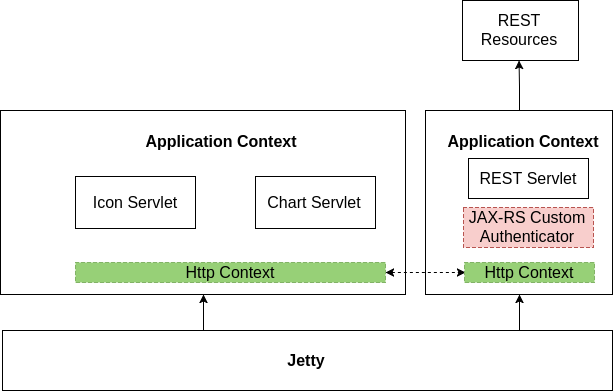
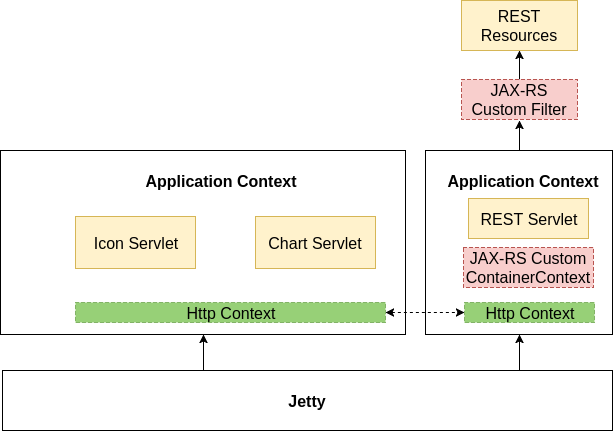
covered implementation and architectural changes, added diagrams and code

diff --git a/master-thesis.tex b/master-thesis.tex
@@ -587,6 +587,7 @@ Figure \ref{fig:misuse_cases} shows on one side the use cases extracted from the
 On 15th February, 2018, a videocall meeting was held by the interested parties in the community with the purpose of clarifying the requirements gathered in the document mentioned in the subsection \ref{ssec:discussion}, and set priorities accordingly. Part of the discussion also meant to discuss how previously attempted solutions might be of use for the future implemention of authentication and access control. Among the most relevant agreed points was the use of JSON Web Tokens (JWT) to accomplish stateless authentication. The main reason for this decision was to reduce the effort needed to manage user sesions in the backend. It was also decided that the specifics of the access control mechanisms would be decided at a later point in time, since the most important priority was solving authentication. Therefore, further effort in this work focused on the implementation of a JWT-based authentication compatible with the Eclipse SmartHome architecture, and thus, compatible also with the openHAB software stack.
 
 Typically, all kinds of token-based authentication follow these steps (REFERENCE):
+\TODO{Structure as an algorithm}
 \begin{enumerate}
 \item The client sends its credentials (e.g. username, password, fingerprint) to the server.
 \item The server attmpts to authenticate: if valid, it generates a token that includes expiration time.
@@ -599,6 +600,7 @@ Typically, all kinds of token-based authentication follow these steps (REFERENCE
 
 The JSON Web Token (JWT) holds some peculiarities to other existing kinds of tokens. The primary difference is that this token includes a digital signature by the party that created it, e.g., the server. Thus, some adaptations would have to be applied to this procedure. Consider, for example, the limitations in the user interface in Eclipse SmartHome to provide web forms to put the credentials. For this reason, credentials are sent first through \emph{basic authentication}, since the web browser takes care of asking for the credentials. Therefore, the proposed authentication mechanism is as follows:
 
+\TODO{Structure as an algorithm}
 \begin{enumerate}
 \item The client sends credentials through basic-authentication pop up form.
 \item The server extracts credentials and, if these match a existing user, generate a JSON Web Token (JWT), appending to it the username and any additional fields, including expiration time and the server's digital signature of the JWT digest. Server sends the JWT to the client.
@@ -607,7 +609,7 @@ The JSON Web Token (JWT) holds some peculiarities to other existing kinds of tok
 \item If the JWT is expired, the server requests credentials through basic-authentication, and if these are valid, it generates and serves a valid JWT.
 \end{enumerate}
 
-What may immediately stand out in this proposal, in contrast with the typical procedure is the embedding of the username as part of the JWT fields. Typically, a username is not considered to be \emph{confidential} and, although it normally isn't made public, it gives the adversary no significant advantage on stealing a user's data. Moreover, for the sake of maintaining forward securtiy, a JWT is only renewed if the valid credentials are presented again. An adversary may, in some manner, retrieve an expired legitimate token. If this expired token would be presented to the server, then the server could present the adversary with a fresh token. Finally, the most important distinction is the use of digital signatures within the token. Indeed, if an adversary tried to impersonate a legitimate user through guessing usernames, it would not work, as the signature would not verify on the server's end. The security of the signature is as strong as the security of the signature, which may be RSA-2048, for instance.
+What may immediately stand out in this proposal, in contrast with the typical procedure is the embedding of the username as part of the JWT fields. Typically, a username is not considered to be \emph{confidential} and, although it normally isn't made public, it gives the adversary no significant advantage on stealing a user's data. In fact, if only resource access control is the goal, then the username does not need to be included. It would be sufficient to include the claims regarding the permissions on access to resources, since the validity of the token is relying on the signature. Moreover, for the sake of maintaining forward securtiy, a JWT is only renewed if the valid credentials are presented again. An adversary may, in some manner, retrieve an expired legitimate token. If this expired token would be presented to the server, then the server could present the adversary with a fresh token. Finally, the most important distinction is the use of digital signatures within the token. Indeed, if an adversary tried to impersonate a legitimate user through guessing usernames, it would not work, as the signature would not verify on the server's end. The security of the signature is as strong as the security of the signature, which may be RSA-2048, for instance.
 
 The aforementioned procedure was designed with the assumption that, at all times, an HTTPS connection is present and thus, communication is protected through the TLS protocol. Otherwise, credentials and JWTs could be intercepted at any time by an adversary. 
 
@@ -623,7 +625,7 @@ As part of the OSGi version 6 specification, filters may be registered to any re
 
 As development of the Eclipse Smarthome halted, a new direction involving traditional servlet security was considered for this work. As part of servlet registration to the OSGi runtime, an entity called \texttt{HttpContext} has to be provided. This entity provides the means to intercept HTTP requests before they reach the servlet, and thus it becomes the point where authentication and authorization may be implemented. Originally, this approach was discarded because the REST endpoints did not support the use of \texttt{HttpContext} alongside its registration. The key in this case is that both groups of servlets, the traditional and the REST servlet, run under different application contexts. What this means is that, even if a traditional servlet handles authentication properly, this information would not be propagated to the REST endpoints, and thus authorization mechanisms would not be enforced. In the months of March and April, however, part of the community started an effort to combine, or rather, to \emph{share} the provided \texttt{HttpContext} among servlets and REST endpoints.
 
-Figure \ref{fig:esh_auth_arch} shows at a very high level the underlying architecture of the Eclipse SmartHome runtime. At the lowest level, the Jetty HTTP server and servlet engine is running. On top of it, there are several servlets running separately. Part of these servlets may be associated as being \emph{traditional}, while a particular servlet, the REST servlet, runs under different conditions. The REST servlet is used to serve resources, such as things, items, channels, etc. The Chart and Icon servlets, are of the traditional kind and thus, run under the same shared application context. Meanwhile, the REST servlet is shown to run under an isolated application context. Thus, the solution worked on by the community is to bridge both contexts and therefore have a commonly shared \texttt{HttpContext}. Green boxes represent a possible solution to the problem, whereas the red box is an attempted solution by the community, which had many problems when ported into the actual openHAB product.
+Figure \ref{fig:esh_auth_arch} shows at a very high level the underlying architecture of the Eclipse SmartHome runtime. At the lowest level, the Jetty HTTP server and servlet engine is running. On top of it, there are several servlets running separately. Part of these servlets may be associated as being \emph{traditional}, while a particular servlet, the REST servlet, runs under different conditions. The REST servlet is used to serve resources, such as things, items, channels, etc. The Chart and Icon servlets, are of the traditional kind and thus, run under the same shared application context. Meanwhile, the REST servlet is shown to run under an isolated application context. Thus, the solution worked on by the community is to bridge both contexts and therefore have a commonly shared \texttt{HttpContext}. Yellow boxes represent the entities or resources that should have its access restricted according to a specified policy. Green boxes represent the possible solution to the problem, whereas the red boxes are the attempted solutions in previous years. Particularly, ``JAX-RS Custom ContainerContext'' was an attempted solution by the community, which had many problems when ported into the actual openHAB product. An alternative solution to it, the ``JAX-RS Custom Filter'' was originally planned to be implemented for this work, but the notion was discarded after understanding the limitations of this kind of filter, since it would not enforce authorization for the rest of the servlets (e.g. Icon servlet). 
 
 \begin{figure} [ht] 
 \begin{center}
@@ -633,16 +635,93 @@ Figure \ref{fig:esh_auth_arch} shows at a very high level the underlying archite
 \end{center}
 \end{figure}
 
-\TODO{include figures (2)  about authenticators and other resources}
+Initial results by the community (REFERENCE) showed that it was indeed possible to make the \texttt{HttpContext} shared by the components that needed access control. Taking these results into account, work in the direction of a \emph{custom} \texttt{HttpContext} started. For this, the merged \texttt{HttpContext} will require the existence of an authenticator, i.e. a module that performs the authentication logic, and thereafter the module that performs authorization. Figure \ref{fig:esh_arch_authenticator} shows how the authenticator is merely a black box that may choose to perform a certain kind of authetnication according to the circumstance. The decision is based on the received HTTP request: depending on whether if has an authorization header, and if it does, which kind of authentication it intends to perform, or otherwise if there is a session identifier (cookie) present. Implementation details for the basic and JWT authenticators are introduced in subsection \ref{ssec:impl}. Form authentication is left as future work. 
 
-Initial results by the community (REFERENCE) showed that it was indeed possible to make the \texttt{HttpContext} shared by the components that needed access control. Taking these results into account, work in the direction of a \emph{custom} \texttt{HttpContext} started. Implementation details are introduced in the next subsection.
+\begin{figure} [ht] 
+\begin{center}
+\includegraphics[width=0.8\textwidth]{esh_arch_authenticator}
+\caption{Addition of authenticators into the architecture.}
+\label{fig:esh_arch_authenticator}
+\end{center}
+\end{figure}
 
-\subsection{Implementation of Authentication}
-As an interface class of the \texttt{Http Service} OSGi feature, \texttt{HttpContext} includes a method \texttt{handleSecurity} which, as the name implies, handles the security for the specified request to the servlet. 
+After the process of authentication, what follows is authorization. The authorization itself depends on the access control policies decided for the particular resources. This work focuses on authentication, and thus does not include the implementation of a particular access control policy. However, a proposal for access control is made in subsection \ref{ssec:autho}.
 
-\TODO{Sequence diagram on authentication}
+\subsection{Implementation of Authenticators}
+\label{ssec:impl}
+
+To model the sequence of events ocurring during the intended authentication procedure, a sequence diagram was written and is shown in figure \ref{fig:esh_auth_sequence}. This is showing the most compelling scenario: where the client interacts the first time with a servlet to get access to a resource. Clearly, as no credentials are provided at this time, the servlet requests basic authentication, and from there it generates a JSON Web Token (JWT). This token is used in any subsequent requests by the client. Note that the authorization policy is not included into this sequence of events. Thus, authorization becomes a binary aspect: if credentials are valid, then access is granted to the resource, regardless of its nature. Due to simplification, this diagram is only considering the use of valid credentials. In the actual implementation, invalid credentials result in a ``Forbidden Access'' response. 
+
+\begin{figure} [ht] 
+\begin{center}
+\includegraphics[width=0.8\textwidth]{esh_auth_sequence}
+\caption{Authentication sequence diagram.}
+\label{fig:esh_auth_sequence}
+\end{center}
+\end{figure}
+
+The implementation of the authenticators was made into the \texttt{auth} bundle of the Eclipse SmartHome OSGi architecture. Due to the hierarchical nature of this project, many details will be omitted.  The core of the authenticator is located as part of the \texttt{CustomHttpContext} code located in this bundle.
+
+As an interface class of the \texttt{Http Service} OSGi feature, \texttt{HttpContext} includes a method \texttt{handleSecurity} which, as the name implies, handles the security for the specified request to the servlet. As long as the servlet is registered with the custom \texttt{HttpContext}, every request into the servlet will go through the \texttt{handleSecurity} method.
+
+\TODO{FIX HYPHEN ISSUES AND REF TO CODE SNIPPET INSTEAD OF FIG}
+\begin{figure} [htb]
+  \begin{lstlisting}
+class CustomHttpContext implements HttpContext {   
+ boolean handleSecurity(request,response) {
+  if(request.getHeader("Authorization") == null \
+       && request.getHeader("Cookie") == null) {
+    response.addHeader("WWW-Authenticate", \
+	"Basic realm=\"Test Realm\"");
+    response.sendError(HttpServletResponse.SC_UNAUTHORIZED;
+    return false;
+  }	    
+  if(jwtAuthenticated(request)) {
+    return true;		
+  } else if(basicAuthenticated(request)){
+    username = getUsername(request);
+    freshToken = generateJwt(username);
+    response.addHeader("Set-Cookie", freshToken);
+    return true;
+  } else {
+    response.sendError(HttpServletResponse.SC_UNAUTHORIZED);
+    return false;
+  }
+ }
+}
+\end{lstlisting}
+\caption{Core implementation of \texttt{CustomHttpContext}.}
+\label{lst:core_impl}
+\end{figure}
+
+The simplified code snippet shows the core part of the \texttt{HttpContext} that intercepts requests and performs authentication from the provided HTTP header. As shown in the code snippet, after the JWT has been generated, it is given to the client as a \emph{cookie}. This way, no logic has to be implemented to manage the token in the client side (e.g. through local storage using HTML5). In subsequent requests, the cookie is presented to the server, and from it, the token is extracted and verified.
+
+To handle the creation and verification of JWT, a third library library, Nimbus, was used (REFERENCE). This library even provides more complex features such as encryption of the JWT via a symmetric key encryption, but these are not currently considered for this work. As part of the basic structure of the JWT, a signature of the host is included at the end of the claims (e.g., username, permissions). For the proof of concept, an RSA-1024 key is generated as a singleton during runtime. Using the singleton pattern ensures that multiple private keys do not exist simultaneously, which could cause conflicts during signature verification. The freshly created RSA key is then used to both generate and sign the JWT, as shown in the simplified code snippet \ref{lst:rsa}.
+
+\begin{figure} [htb]
+\begin{lstlisting}
+  protected String generateJwt(String username, String claim) {
+    RSAPublicKey publicKey = (RSAPublicKey)getKeyPair().getPublic();
+    RSAPrivateKey privKey = (RSAPrivateKey)getKeyPair().getPrivate();
+    JWSObject jwsObject = new JWSObject(
+    new JWSHeader.Builder(JWSAlgorithm.RS256).keyID("123").build(),
+    new Payload(username));
+    jwsObject.sign(new RSASSASigner(privKey));
+    return jwsObject.serialize();	
+  }    
+\end{lstlisting}
+\caption{Generation and signing of JWT.}
+\label{lst:rsa}
+\end{figure}
+
+Code for the verification of the JWT is omitted as it follows a very similar logic to JWT generation and signing, but in reverse order. This implies de-serializing the JWT, loading the RSA public key into some object, verifying JWT using said object, and finally extracting username and claims. In the implementation, the username need not be extracted, as it is guaranteed that the claims are valid, given that the signature is valid.
+
+As mentioned, the RSA key is generated at runtime once. Originally, this was meant to merely be a placeholder for a pre-existing RSA key that is present in the distribution of openHAB for SSH access. This pre-existing RSA key is stored in a file \texttt{keys.properties} under the \texttt{etc/} directory of the installation path of openHAB. However, it turned out that some problems emerged from this idea. First, the pre-existing RSA key was disabled, i.e. commented, as a security precaution. Secondly, the key is only generated as part of running the Karaf container inside the openHAB distribution. As Karaf is not included within the Eclipse SmartHome distribution, there is no pre-existing key. For the first problem, it would be enough to have the openHAB administrator generate a fresh key pair and store the public and private keys. However, this is not exactly user-friendly, and thus becomes a problem in terms of security usability.  A possible solution to the second problem is to leave key generation to the \texttt{auth} bundle and store it in some file in the local filesystem. When the bundle is activated it will first look for the file before attempting to generate a new RSA key. As the discussion within the community has not gotten to this point, the implementation has maintained the idea of storing the RSA key in memory during runtime. It should not cause problems and, in case that the bundle is restarted, then due to invalid JWTs, credentials will be requested again.
+
+The rest of the implementation follows the authentication logic for the basic and token-based types. The code is currently maintained as a fork of the Eclipse SmartHome project (REFERENCE).
   
 \subsection{Proposed Authorization Scheme}
+\label{ssec:autho}
 \TODO{Mention what will be "secured": servlets, REST endpoints, to view and to modify, etc}
 
 \newpage
